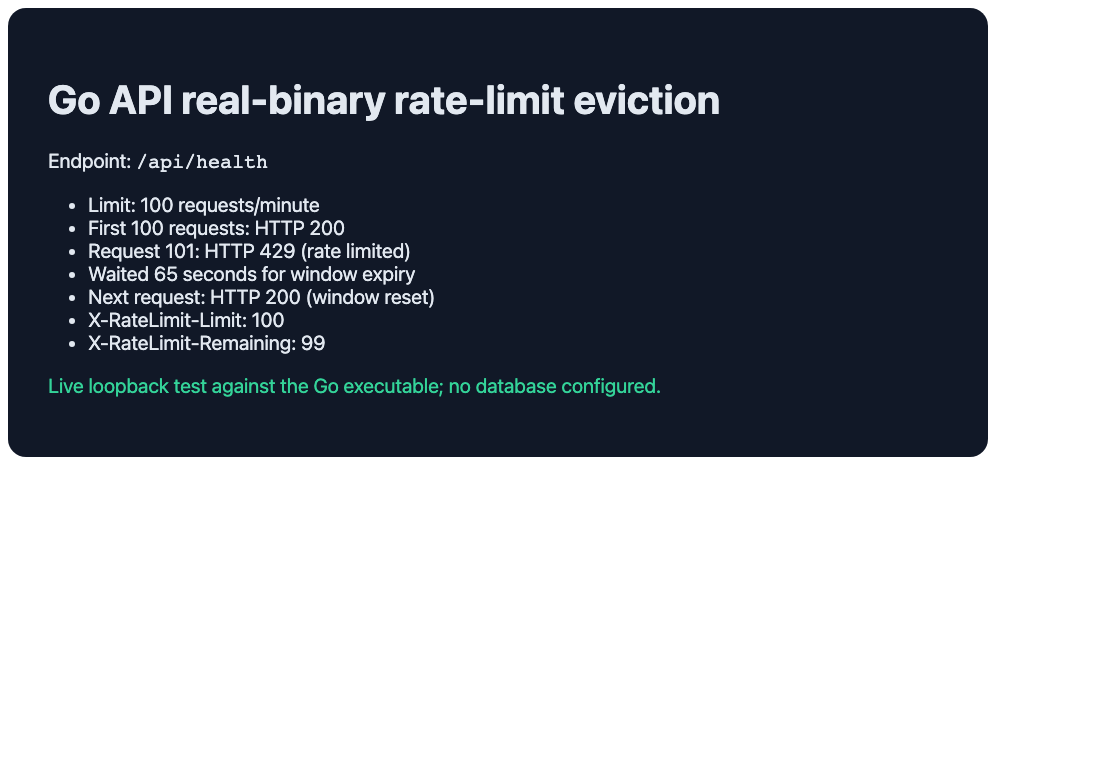
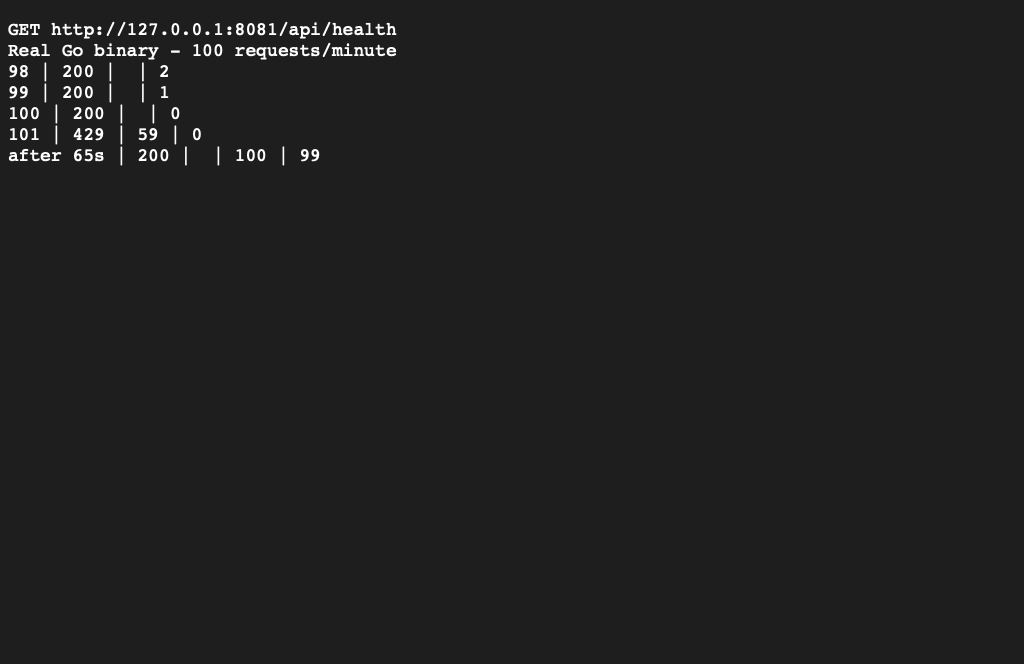
no-mistakes(review): Capture authentic local binary rate-limit evidence

diff --git a/docs/plans/go-migration/evidence/local-run-screenshots.md b/docs/plans/go-migration/evidence/local-run-screenshots.md
@@ -29,7 +29,7 @@ The route walkthrough used the real Go binary. Each request returned HTTP 200. T
 
 With the public limit set to 100 requests per minute, 101 rapid requests from one loopback client produced 100 HTTP 200 responses followed by HTTP 429. After waiting 65 seconds, the next request returned HTTP 200 with `X-RateLimit-Limit: 100` and `X-RateLimit-Remaining: 99`. The standalone Go binary ran with no database configured.
 
-![Real-binary rate-limit response and post-expiry reset results](local-run/go-rate-limit-eviction.png)
+![Browser capture of live requests to the Go binary: requests 98-100 returned HTTP 200, request 101 returned HTTP 429 with Retry-After 59, and the request after 65 seconds returned HTTP 200 with the limit reset to 100 and 99 remaining.](local-run/go-rate-limit-eviction.png)
 
 [View the rate-limit expiry video](local-run/go-rate-limit-eviction.webm).
 
